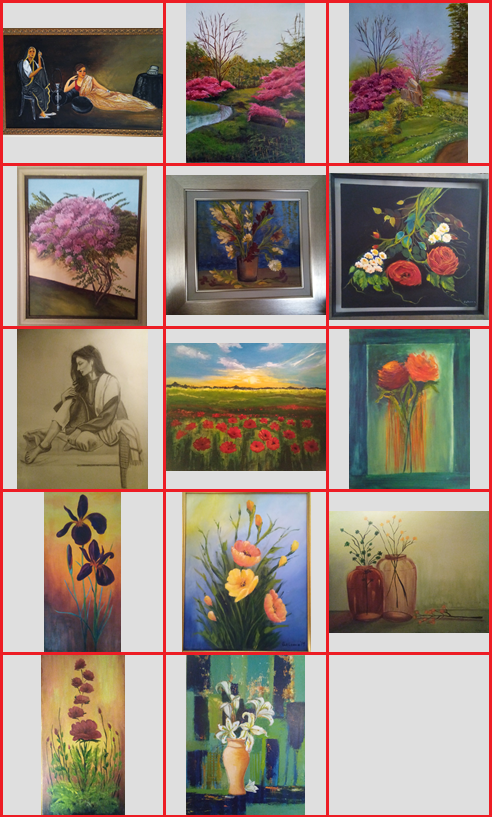
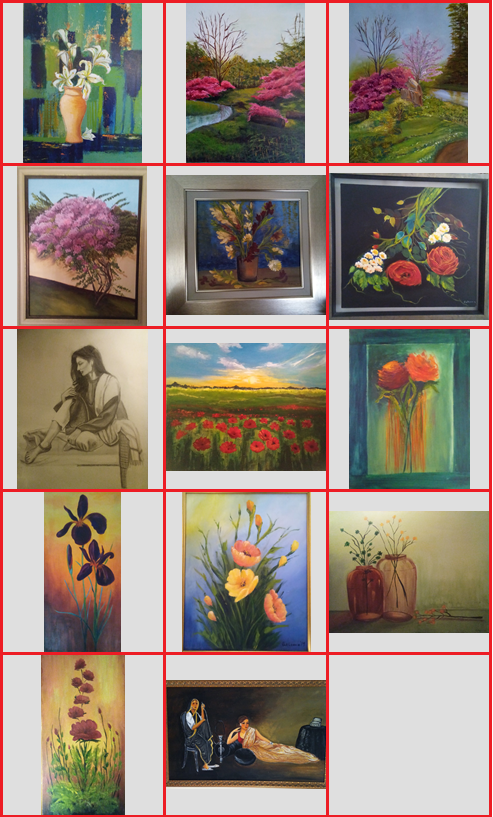
Add files via upload

Changed region(s): [[0.3347, 0.7956, 0.6694, 1.0], [0.0, 0.0, 0.3347, 0.2142]]

diff --git a/slideshow/sale/details.js b/slideshow/sale/details.js
@@ -18,7 +18,7 @@ SlideshowDetailsView.prototype.Set = function(cnvs, specs, pView, gTool, tWriter
 };
 SlideshowDetailsView.prototype.SetData = function() {
 
-	this.PaintingInfo = [ [ "Courtesan.", "32x20", 25 ],
+	this.PaintingInfo = [ [ "Abstract Lilies in Vase.", "18x24", 20 ],
 								 [ "Montreal Botanical.", "18x24", 35 ],
 								 [ "Montreal Botanical Gardens 2.", "18x24", 35 ],
 								 [ "Bougainvillea Munira.", "19x23", 20 ],
@@ -31,7 +31,7 @@ SlideshowDetailsView.prototype.SetData = function() {
 								 [ "Flower Bouquet.", "14x17", 15 ],
 								 [ "Transparent Jars.", "24x18", 25 ],
 								 [ "Maroon Flowers.", "12x24", 25 ],
-								 [ "Abstract Lilies in Vase.", "18x24", 20 ]
+								 [ "Courtesan.", "32x20", 0 ]
 							  ];
 };
 SlideshowDetailsView.prototype.Open = function() {
@@ -76,5 +76,6 @@ SlideshowDetailsView.prototype.WriteText = function() {
 
 	this.TextWriter.Write(this.PaintingInfo[this.PaintingIndex][0], 20, this.Height+40, { FONT: "18px Arial" } );
 	this.TextWriter.Write(this.PaintingInfo[this.PaintingIndex][1]+" in", 20, this.Height+60, { FONT: "18px Arial" } );
-	this.TextWriter.Write(this.PaintingInfo[this.PaintingIndex][2]+",000 Rs", 20, this.Height+80, { FONT: "18px Arial" } );
+	if (this.PaintingInfo[this.PaintingIndex][2])
+		this.TextWriter.Write(this.PaintingInfo[this.PaintingIndex][2]+",000 Rs", 20, this.Height+80, { FONT: "18px Arial" } );
 };

diff --git a/slideshow/sale/data.js b/slideshow/sale/data.js
@@ -30,9 +30,9 @@ var SCREEN = { WIDTH: 360, HEIGHT: 600 };
 //--------------------------------------
 //---------- IMAGES --------------------
 
-var Art = [ "paintings/111.jpg", "paintings/112.jpg", "paintings/113.jpg", "paintings/114.jpg", "paintings/115.jpg", "paintings/116.jpg",
+var Art = [ "paintings/125.jpg", "paintings/112.jpg", "paintings/113.jpg", "paintings/114.jpg", "paintings/115.jpg", "paintings/116.jpg",
 				"paintings/122.jpg", "paintings/118.jpg", "paintings/119.jpg", "paintings/120.jpg",	"paintings/121.jpg", "paintings/123.jpg",
-				"paintings/124.jpg", "paintings/125.jpg"
+				"paintings/124.jpg", "paintings/111.jpg"
 ];
 
 //--------------------------------------
